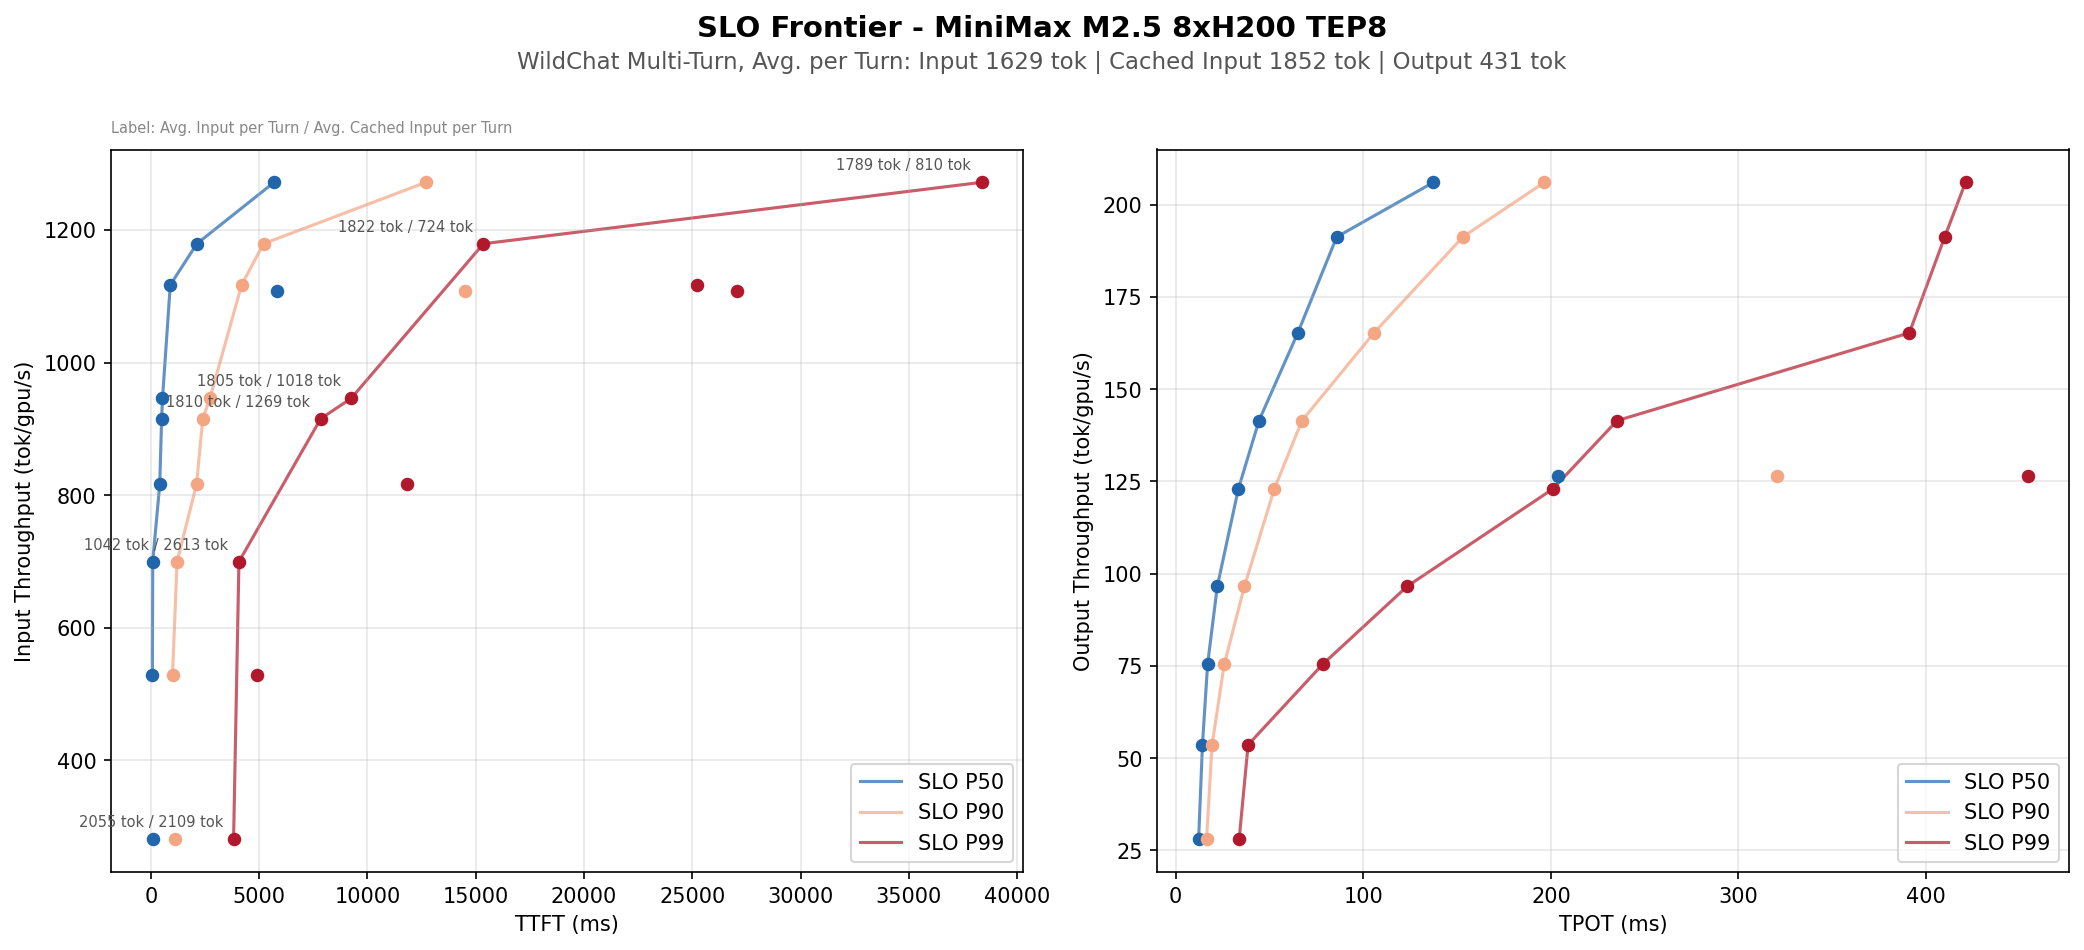
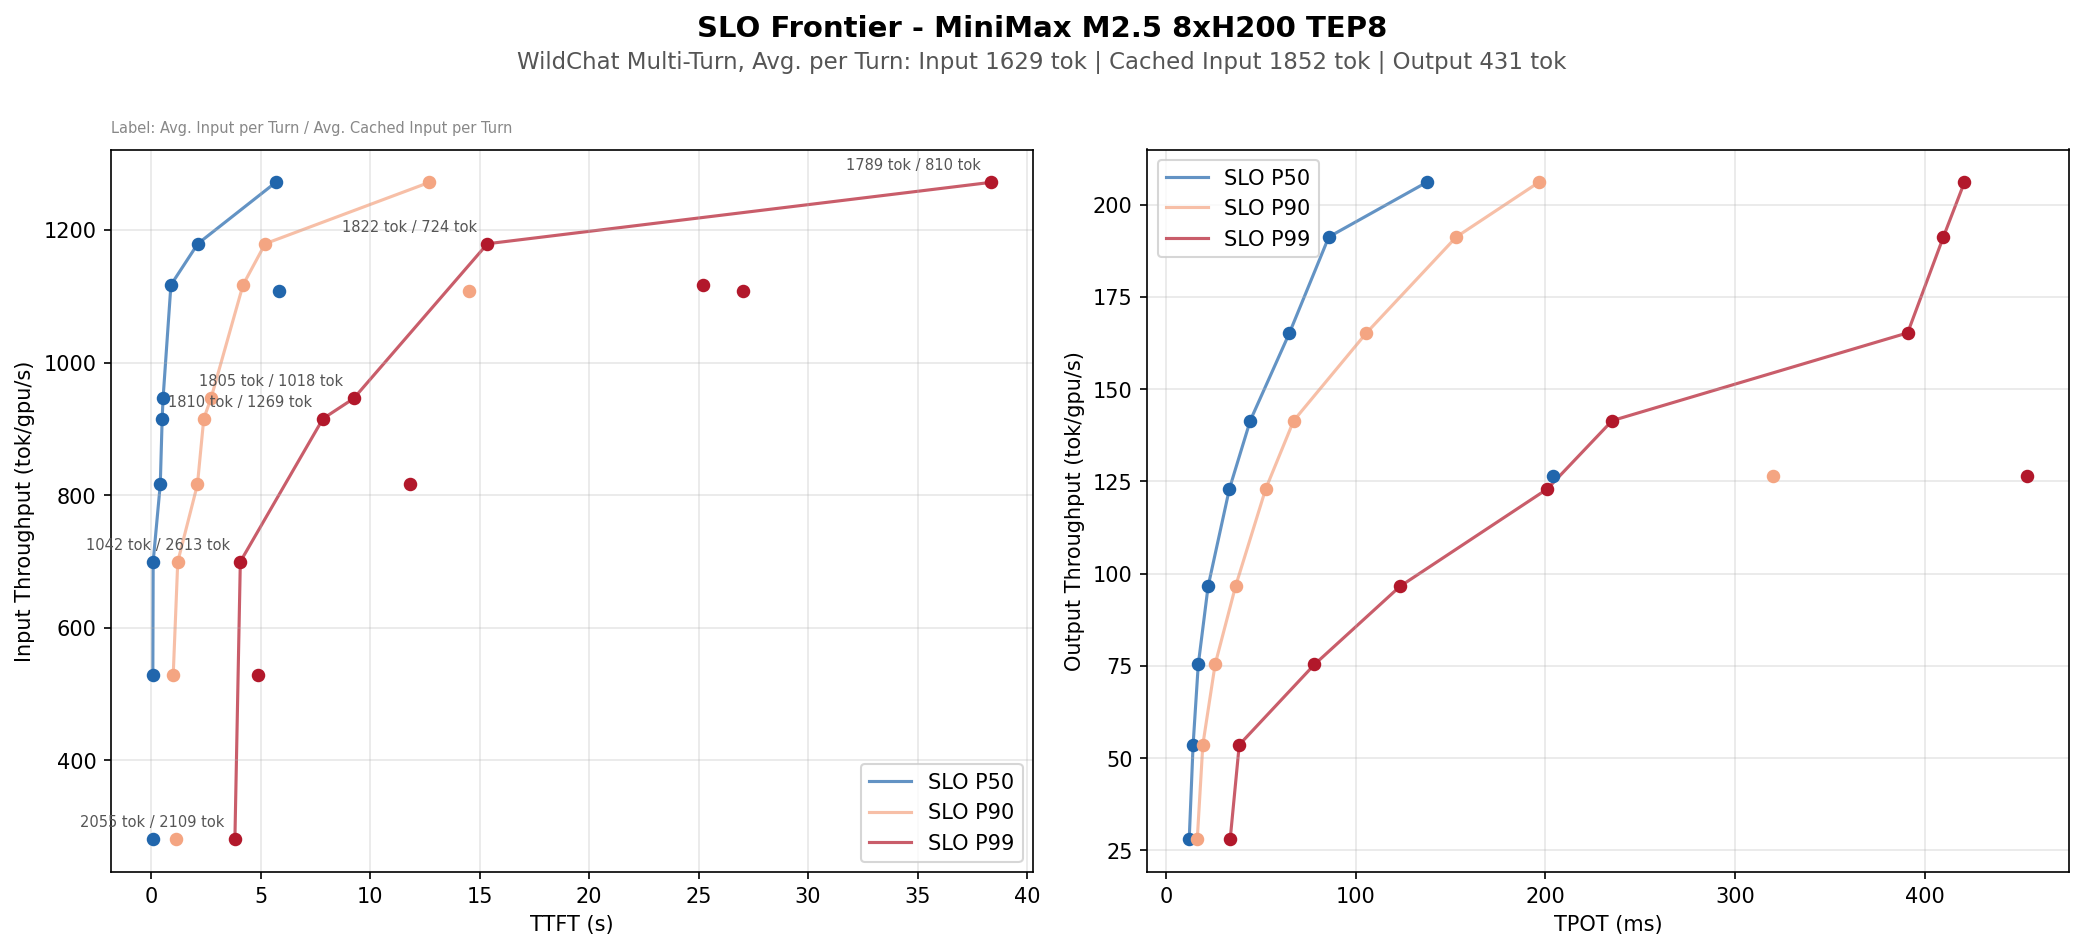
Change TTFT axis to seconds in SLO frontier plots

diff --git a/visualization/plot_slo_frontier.py b/visualization/plot_slo_frontier.py
@@ -1,6 +1,6 @@
 """Plot SLO-to-throughput charts from benchmark sweep results.
 
-Chart 1: TTFT SLO (ms) vs Input Throughput (tok/gpu/s)
+Chart 1: TTFT SLO (s) vs Input Throughput (tok/gpu/s)
 Chart 2: TPOT SLO (ms) vs Output Throughput (tok/gpu/s)
 
 Each chart has three lines: SLO P50, SLO P90, SLO P99.
@@ -214,18 +214,18 @@ def main():
     fig, (ax1, ax2) = plt.subplots(1, 2, figsize=(14, 6))
 
     def plot_chart(ax, metric_key, token_key, xlabel, ylabel,
-                   label_fn=None, label_desc=None):
+                   label_fn=None, label_desc=None, x_scale=1.0):
         for label, pct, color in percentiles:
             pts = compute_sweep_points(
                 runs, metric_key, token_key, args.num_gpus, pct
             )
             if pts:
-                xs = [p["x"] for p in pts]
+                xs = [p["x"] * x_scale for p in pts]
                 ys = [p["y"] for p in pts]
                 ax.scatter(xs, ys, color=color, s=30, zorder=2)
                 front = pareto_frontier(pts)
                 if len(front) >= 2:
-                    fx = [p["x"] for p in front]
+                    fx = [p["x"] * x_scale for p in front]
                     fy = [p["y"] for p in front]
                     ax.plot(fx, fy, color=color, linewidth=1.5, alpha=0.7,
                             label=f"SLO {label}", zorder=1)
@@ -240,7 +240,7 @@ def main():
                         if (pt["x"], pt["y"]) in frontier_pts:
                             ax.annotate(
                                 label_fn(pt),
-                                (pt["x"], pt["y"]),
+                                (pt["x"] * x_scale, pt["y"]),
                                 textcoords="offset points",
                                 xytext=(-5, 6),
                                 fontsize=7,
@@ -261,9 +261,10 @@ def main():
 
     plot_chart(
         ax1, "ttft_ms", "input_num_tokens",
-        "TTFT (ms)", "Input Throughput (tok/gpu/s)",
+        "TTFT (s)", "Input Throughput (tok/gpu/s)",
         label_fn=lambda pt: f'{pt["base_per_req"]} tok / {pt["cached_per_req"]} tok',
         label_desc="Label: Avg. Input per Turn / Avg. Cached Input per Turn",
+        x_scale=0.001,
     )
     plot_chart(
         ax2, "tpot_ms", "output_num_tokens",
